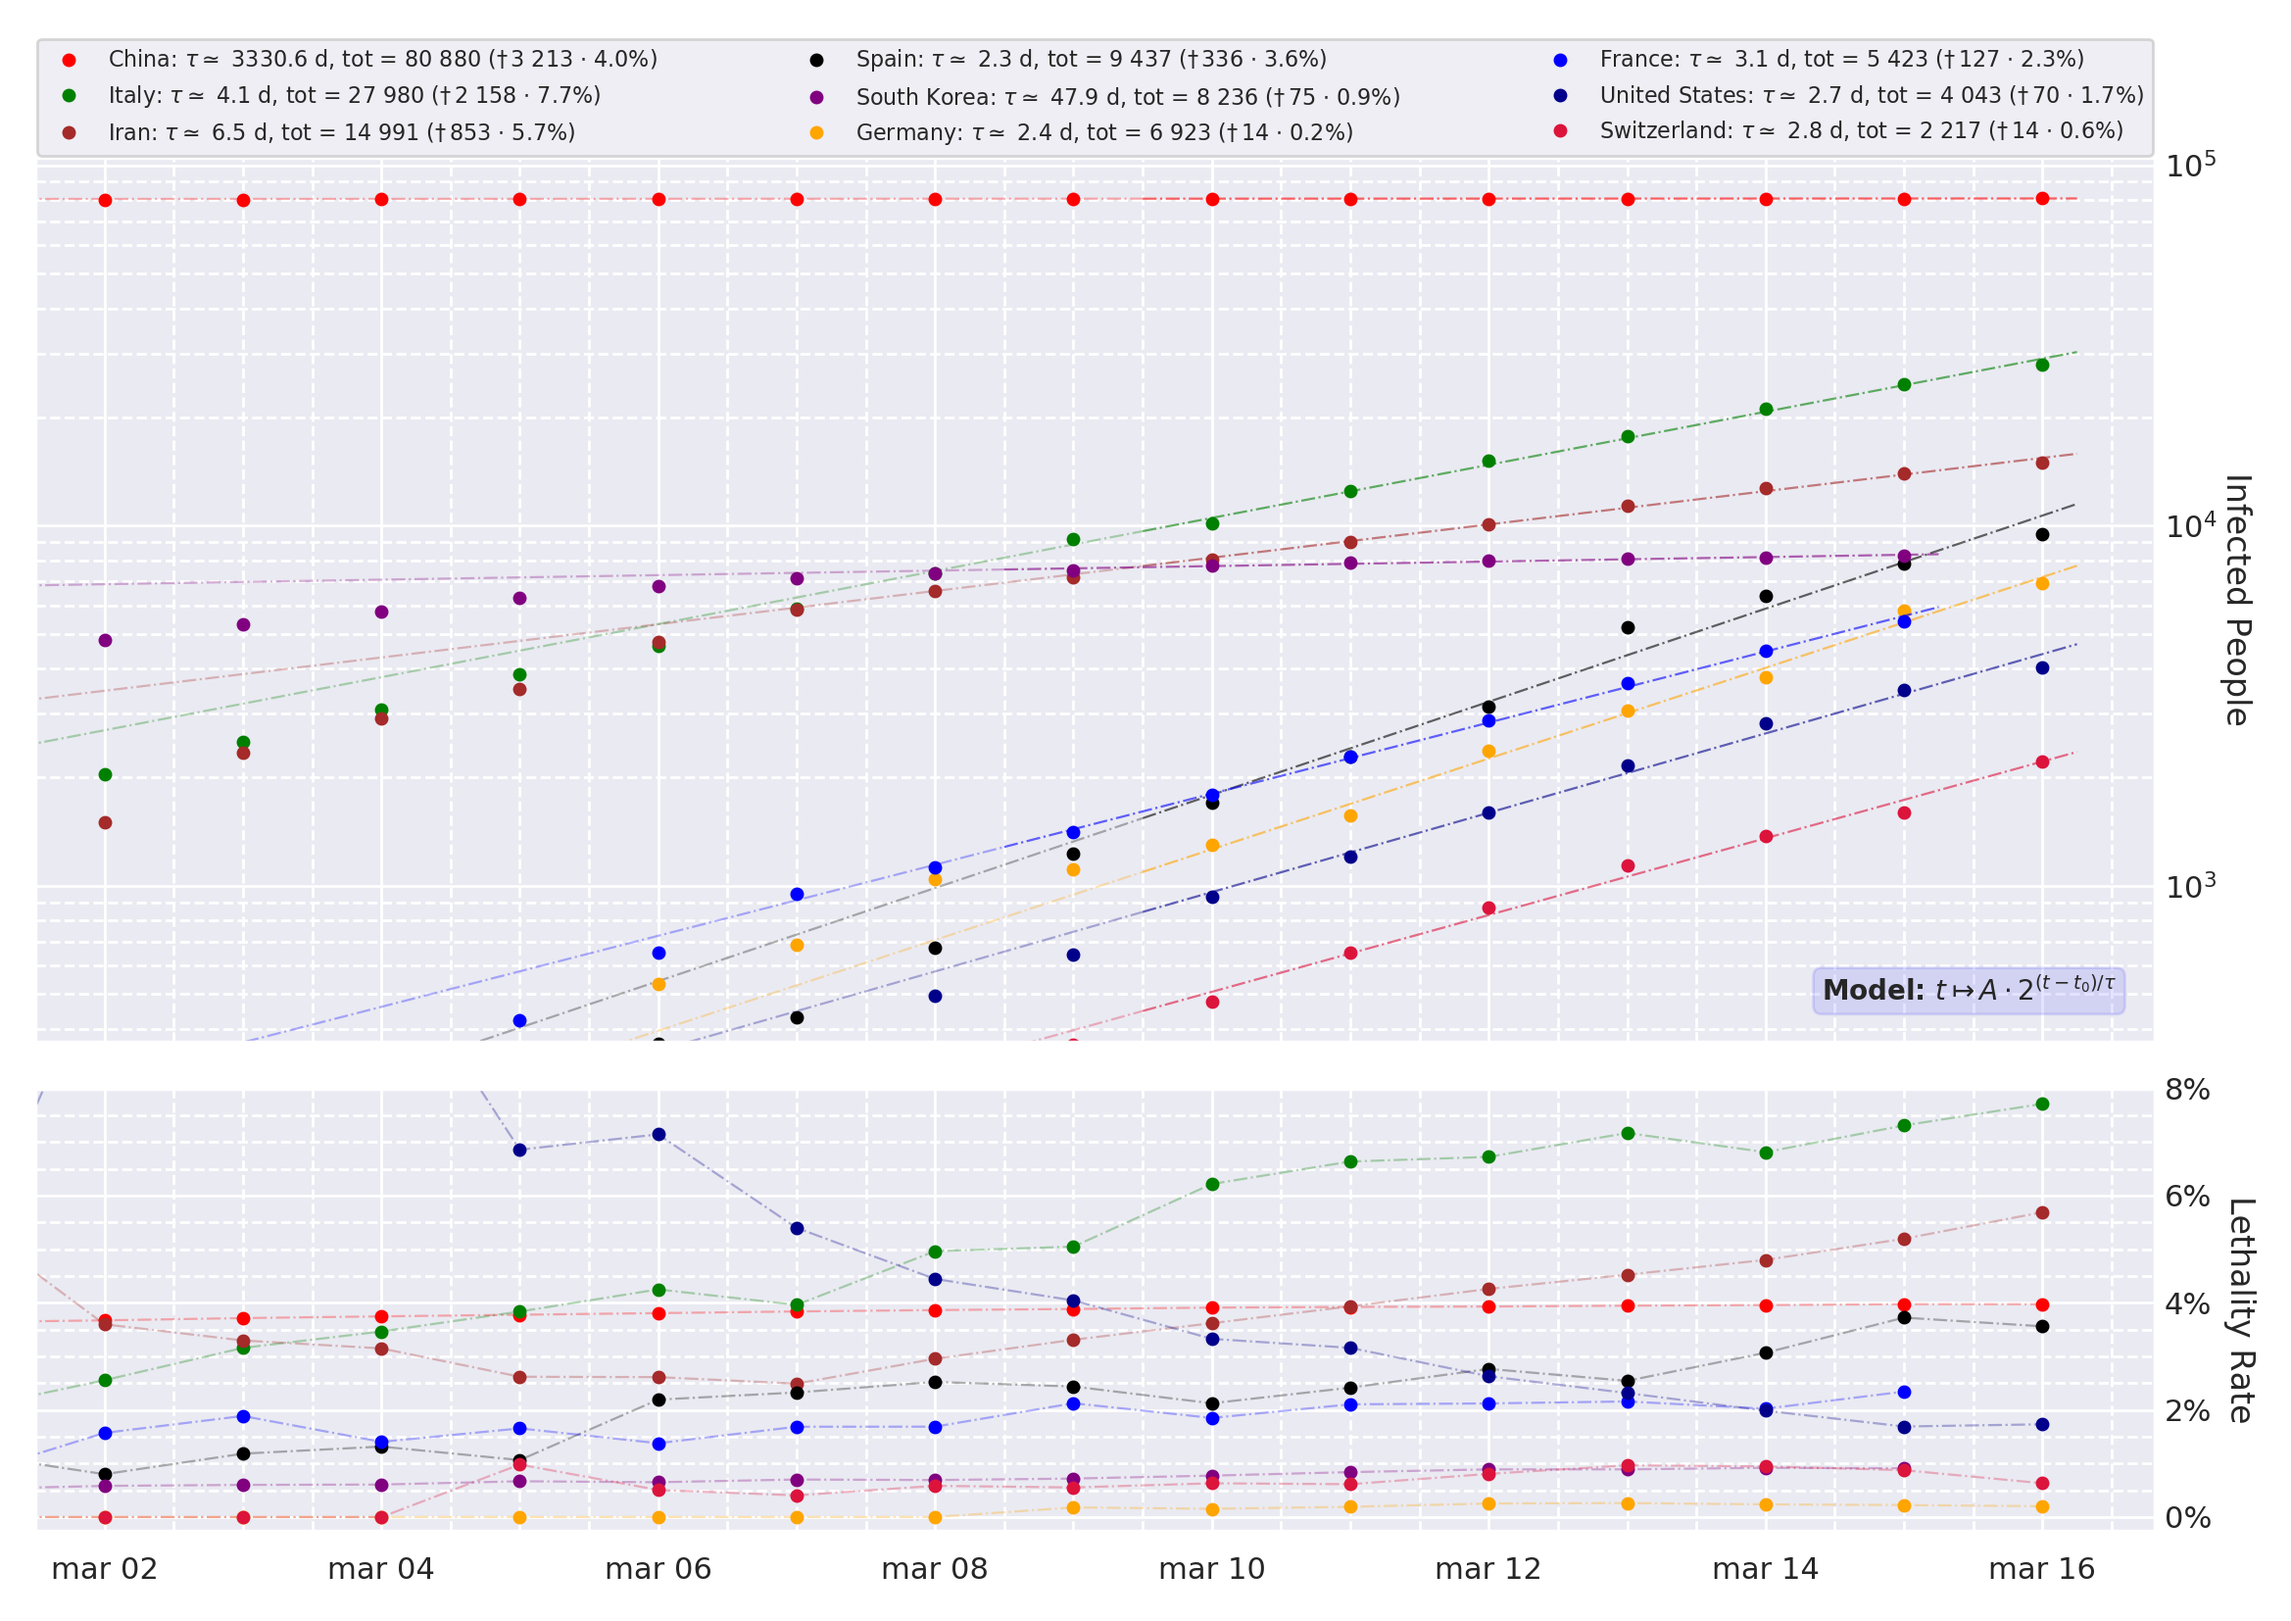
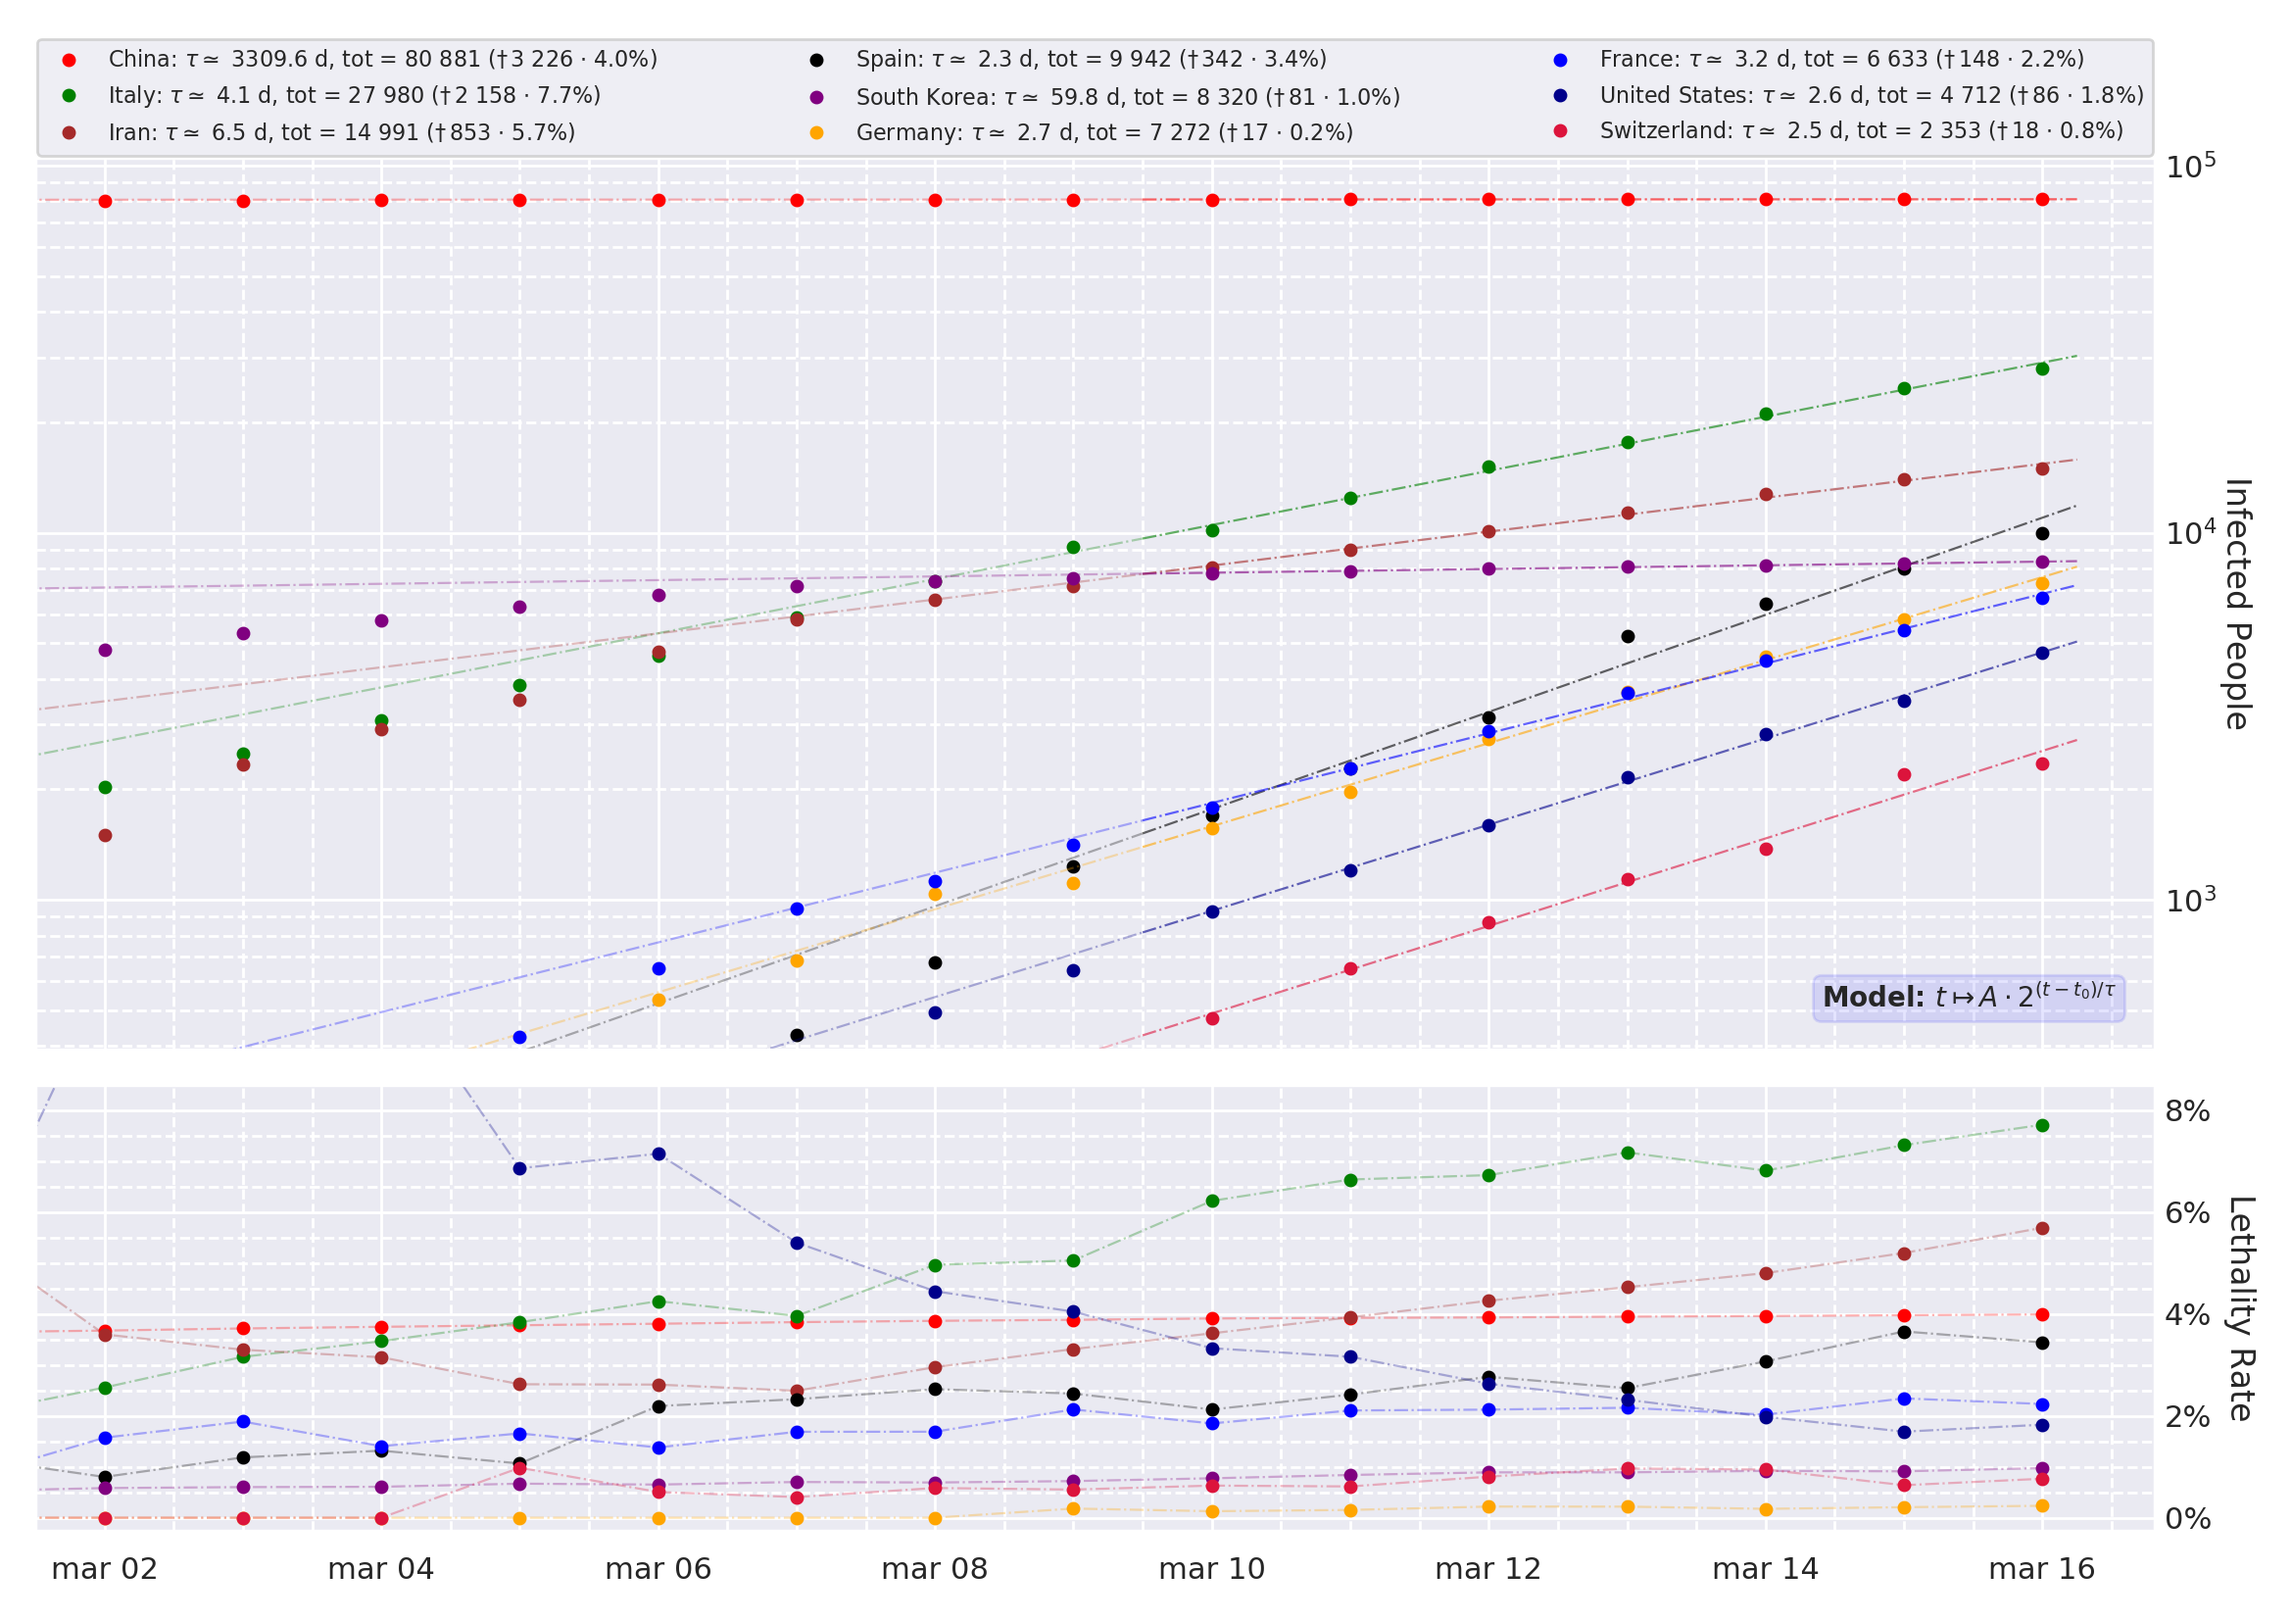
minor commit

diff --git a/Coronavirus/coronavirus.py b/Coronavirus/coronavirus.py
@@ -12,6 +12,7 @@ register_matplotlib_converters()
 import seaborn as sns
 sns.set()
 
+
 def lin(t, b, t0, c):
     return (t-t0)/b + c
 
@@ -127,7 +128,7 @@ ax2.yaxis.set_minor_locator(ticker.MultipleLocator(.5))
 ax2.yaxis.set_major_formatter(
     ticker.FuncFormatter(lambda y, _: "{:.0%}".format(y/100))
 )
-ax2.set_ylim((-0.25, 8))
+ax2.set_ylim((-0.25, 8.5))
 ax2.set_ylabel("Lethality Rate", rotation=270, labelpad=16)
 ax2.minorticks_on()
 ax2.yaxis.tick_right()
